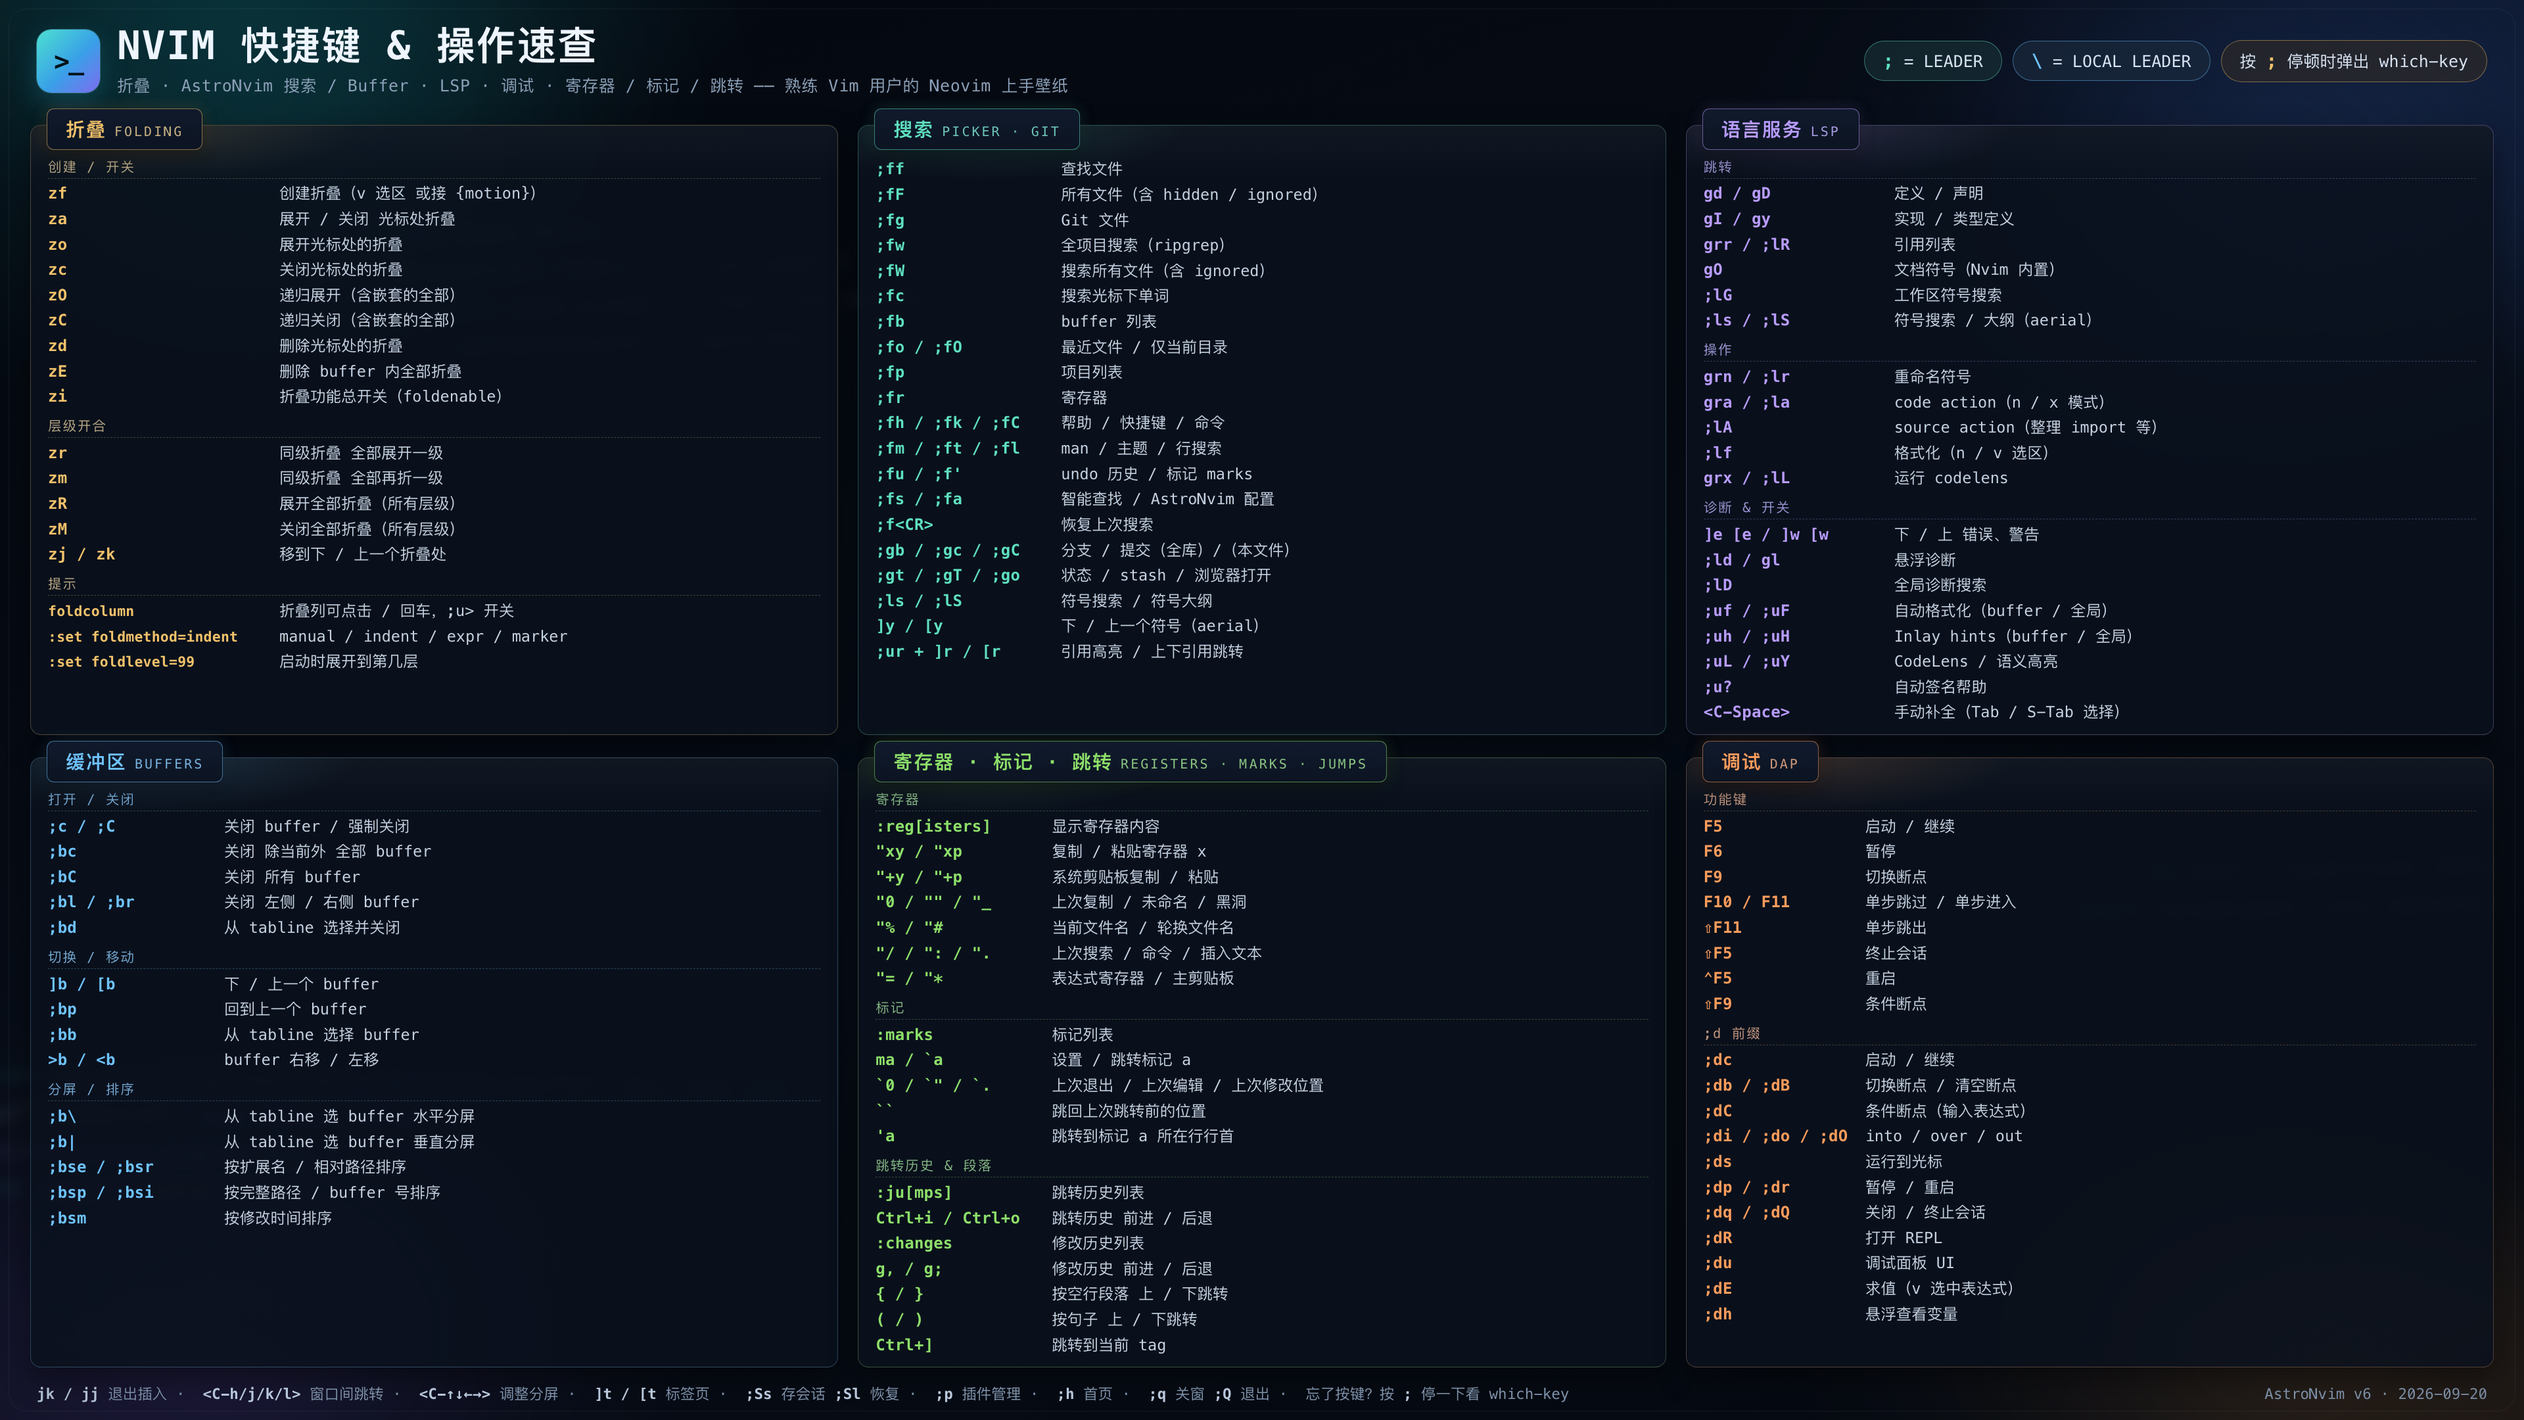
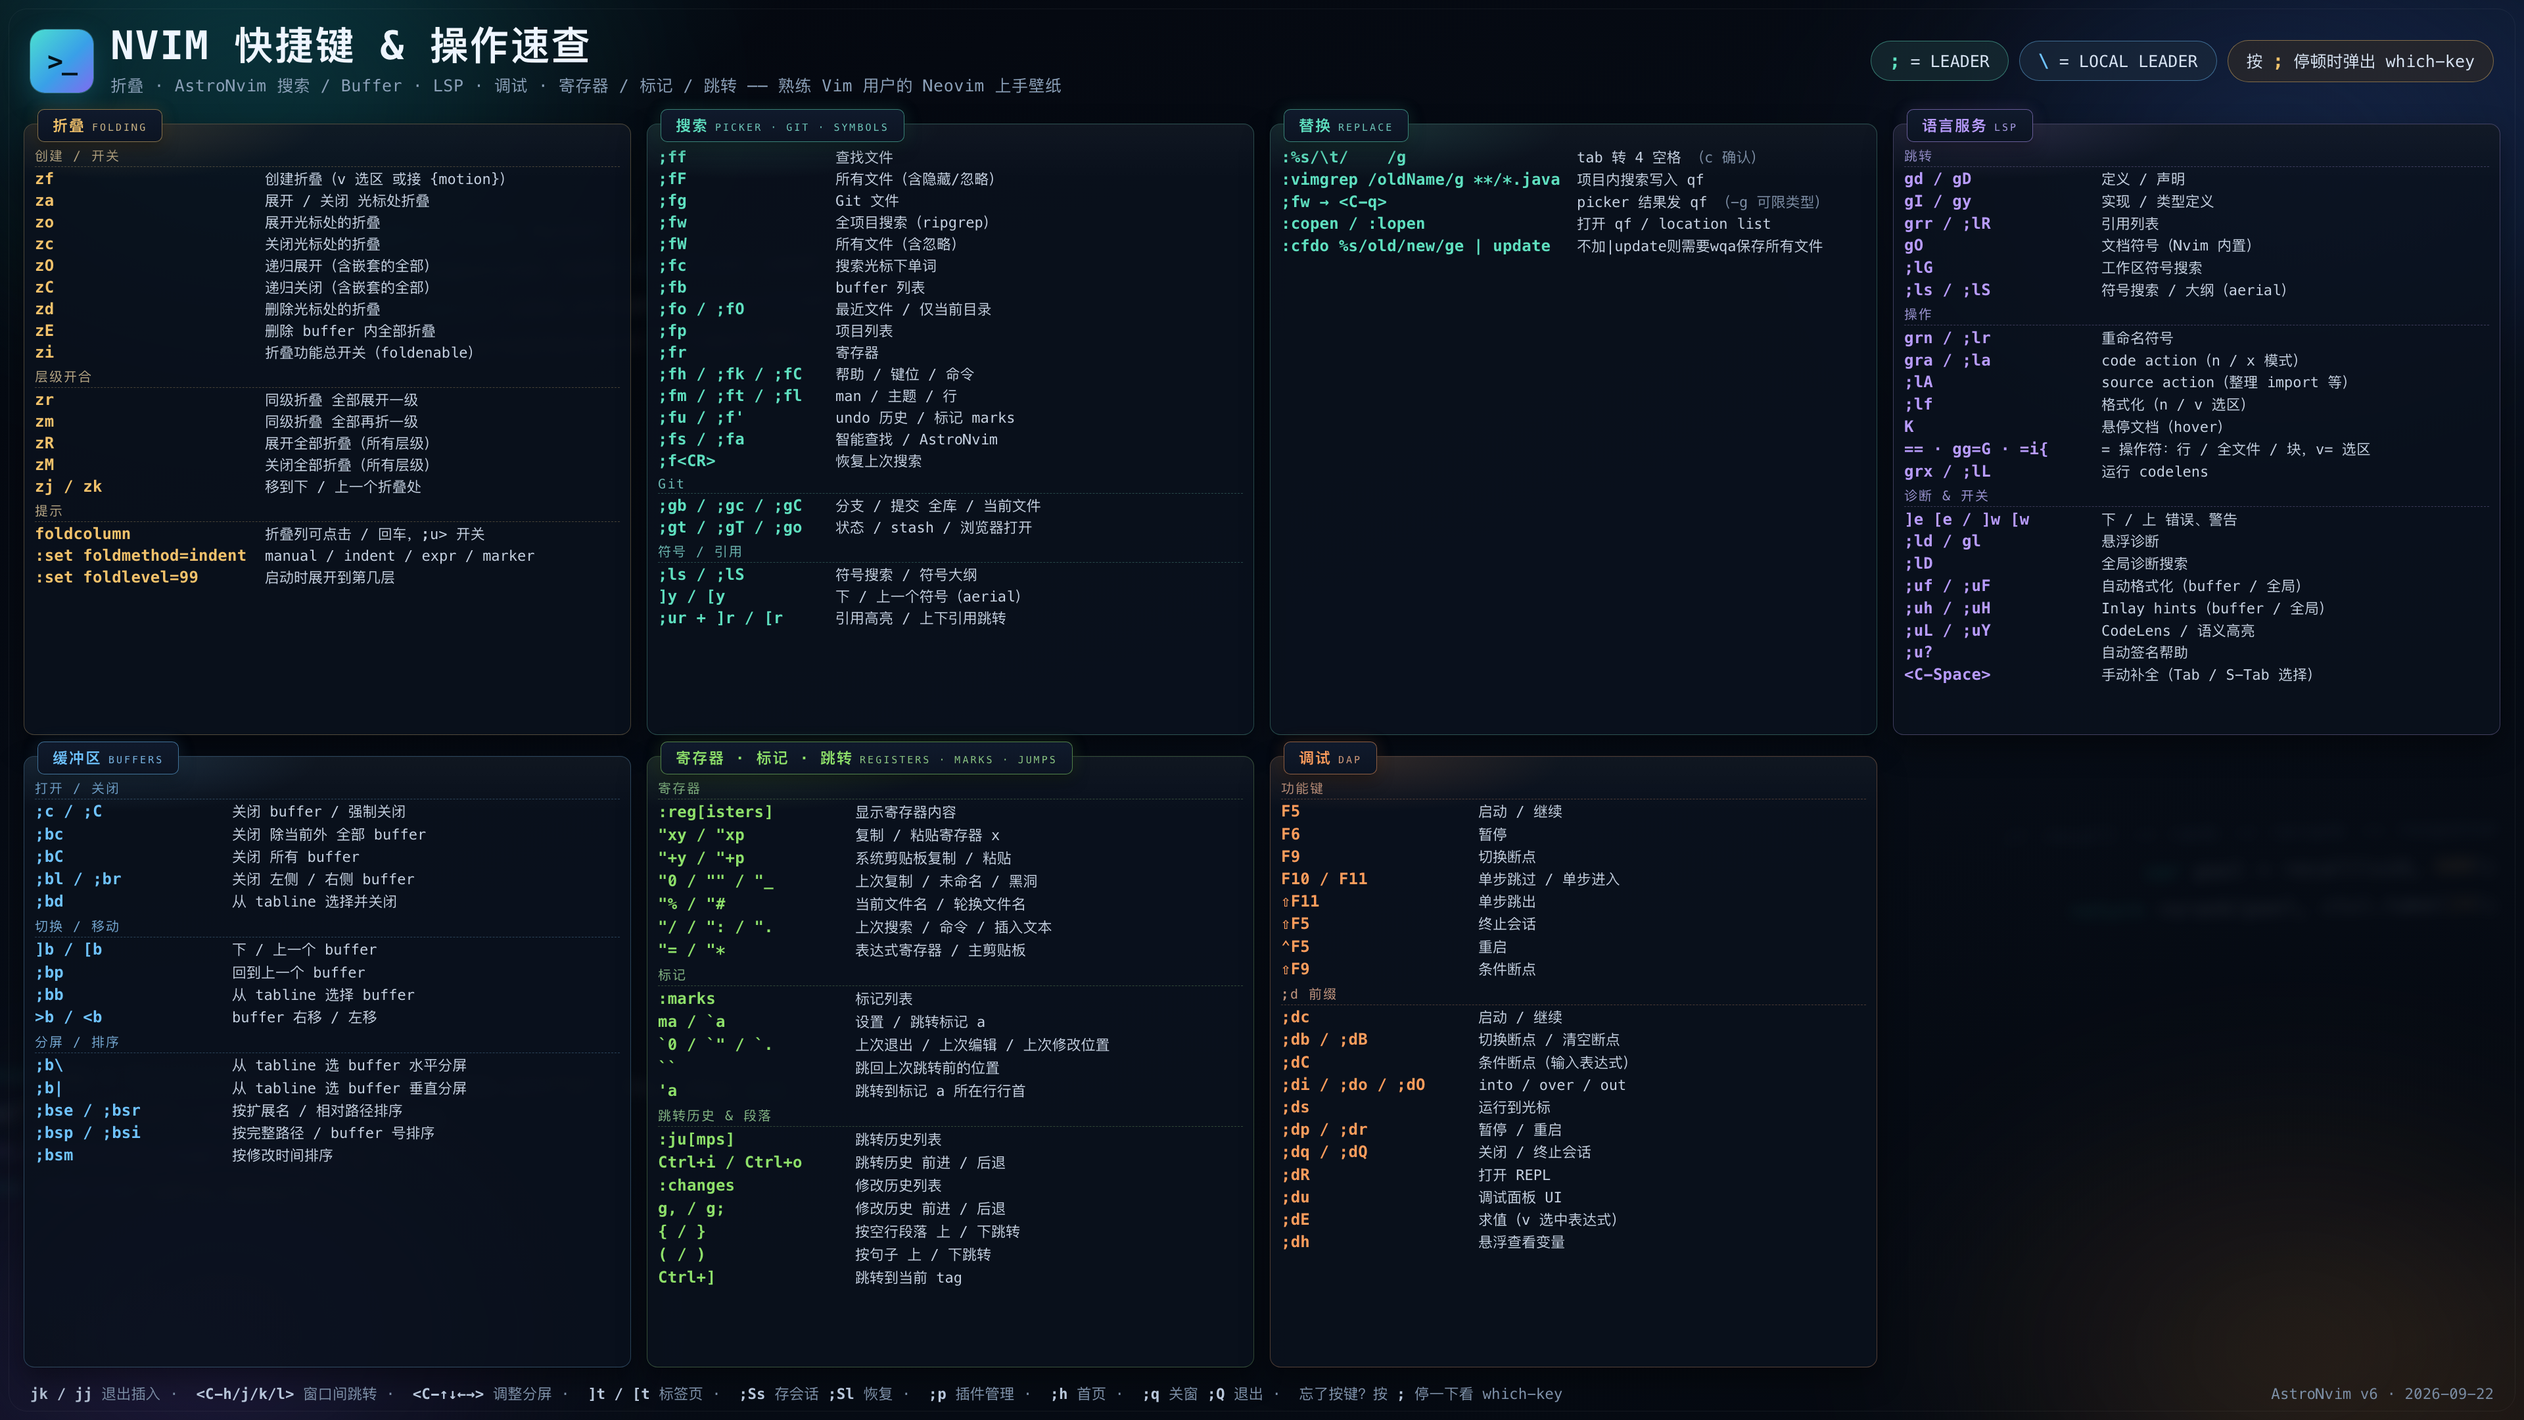
feat: add vimgrep/cfdo/copen

diff --git a/nvim-cheatsheet.html b/nvim-cheatsheet.html
@@ -16,7 +16,7 @@
     position:relative; width:3840px; height:2160px; flex:none;
     transform-origin:center center;
     display:flex; flex-direction:column;
-    padding:30px 46px 24px;
+    padding:30px 36px 24px;
     background:
       radial-gradient(1500px 700px at 8% -6%, rgba(24,180,190,.16), transparent 62%),
       radial-gradient(1700px 800px at 104% 4%, rgba(58,110,220,.14), transparent 60%),
@@ -59,12 +59,12 @@
 
   /* ---------- grid & panels ---------- */
   .grid { position:relative; flex:1; min-height:0; display:grid;
-          grid-template-columns:repeat(3,1fr); grid-template-rows:repeat(2,1fr);
-          gap:34px 30px; padding-top:18px; }
+          grid-template-columns:repeat(4,1fr); grid-template-rows:repeat(2,1fr);
+          gap:32px 24px; padding-top:16px; }
   .panel {
     --a:#6fc3ff;
     position:relative; min-height:0; border-radius:16px;
-    padding:38px 26px 18px;
+    padding:28px 16px 12px;
     background:linear-gradient(180deg, rgba(255,255,255,.028), rgba(255,255,255,0) 9%), rgba(10,17,29,.84);
     border:1px solid color-mix(in srgb, var(--a) 24%, rgba(255,255,255,.055));
     box-shadow:0 18px 44px rgba(0,0,0,.42), inset 0 1px 0 rgba(255,255,255,.03);
@@ -74,33 +74,35 @@
     background:radial-gradient(430px 120px at 16% 0%, color-mix(in srgb, var(--a) 13%, transparent), transparent 70%);
   }
   .tab {
-    position:absolute; top:-26px; left:24px; z-index:2;
-    display:flex; align-items:baseline; gap:12px;
-    padding:10px 28px; border-radius:11px;
+    position:absolute; top:-23px; left:20px; z-index:2;
+    display:flex; align-items:baseline; gap:10px;
+    padding:8px 22px; border-radius:10px;
     background:linear-gradient(180deg,#101a2c,#0c1422);
     border:1px solid color-mix(in srgb, var(--a) 52%, transparent);
     box-shadow:0 8px 22px rgba(0,0,0,.5), 0 0 24px color-mix(in srgb, var(--a) 16%, transparent);
     white-space:nowrap;
   }
-  .tab .zh { font-size:29px; font-weight:700; color:var(--a); letter-spacing:2px; }
-  .tab .en { font-size:20px; color:color-mix(in srgb, var(--a) 62%, #8798ad); letter-spacing:3px; }
+  .tab .zh { font-size:23px; font-weight:700; color:var(--a); letter-spacing:2px; }
+  .tab .en { font-size:15px; color:color-mix(in srgb, var(--a) 62%, #8798ad); letter-spacing:3px; }
 
-  .rows { position:relative; display:flex; flex-direction:column; height:100%; padding-top:10px; }
+  .rows { position:relative; display:flex; flex-direction:column; height:100%; padding-top:6px; }
   .sh {
-    margin:10px 0 4px; padding-bottom:3px; font-size:20.5px; letter-spacing:2px;
+    margin:6px 0 2px; padding-bottom:2px; font-size:20px; letter-spacing:2px;
     color:color-mix(in srgb, var(--a) 52%, #7d8da3);
     border-bottom:1px dashed color-mix(in srgb, var(--a) 22%, rgba(255,255,255,.06));
   }
   .sh:first-child { margin-top:0; }
-  .row { display:flex; align-items:baseline; padding:var(--rp,3.8px) 0; }
+  .row { display:flex; align-items:baseline; padding:var(--rp,2.4px) 0; }
   .k {
-    width:var(--kw,248px); flex:none; padding-right:16px;
+    width:var(--kw,248px); flex:none; padding-right:10px;
     font-size:24px; font-weight:600; color:var(--a); letter-spacing:.2px;
     white-space:nowrap;
   }
-  .k.sm { font-size:21.5px; }
-  .d { flex:1; min-width:0; font-size:23.5px; color:#c6d2e2; line-height:1.32; }
+  .k.sm { font-size:18px; }
+  .d { flex:1; min-width:0; font-size:22px; color:#c6d2e2; line-height:1.32; }
   .d .m { color:#7d8ea5; }
+  .col.compact .k.sm { font-size:15px; }
+  .col.compact .d { font-size:18px; }
 
   /* ---------- footer ---------- */
   footer {
@@ -156,7 +158,7 @@ map(<span class="ts">"&lt;Leader&gt;lf"</span>, <span class="tv">vim.lsp.buf.for
   <div class="grid">
 
     <!-- ============ 1. FOLDING ============ -->
-    <section class="panel" style="--a:#f2c26b;--kw:352px">
+    <section class="panel" style="--a:#f2c26b;--kw:350px;--rp:2.0px">
       <div class="tab"><span class="zh">折叠</span><span class="en">FOLDING</span></div>
       <div class="rows">
         <div class="sh">创建 / 开关</div>
@@ -176,41 +178,55 @@ map(<span class="ts">"&lt;Leader&gt;lf"</span>, <span class="tv">vim.lsp.buf.for
         <div class="row"><span class="k">zM</span><span class="d">关闭全部折叠（所有层级）</span></div>
         <div class="row"><span class="k">zj / zk</span><span class="d">移到下 / 上一个折叠处</span></div>
         <div class="sh">提示</div>
-        <div class="row"><span class="k sm">foldcolumn</span><span class="d">折叠列可点击 / 回车，;u&gt; 开关</span></div>
-        <div class="row"><span class="k sm">:set foldmethod=indent</span><span class="d">manual / indent / expr / marker</span></div>
-        <div class="row"><span class="k sm">:set foldlevel=99</span><span class="d">启动时展开到第几层</span></div>
+        <div class="row"><span class="k">foldcolumn</span><span class="d">折叠列可点击 / 回车，;u&gt; 开关</span></div>
+        <div class="row"><span class="k">:set foldmethod=indent</span><span class="d">manual / indent / expr / marker</span></div>
+        <div class="row"><span class="k">:set foldlevel=99</span><span class="d">启动时展开到第几层</span></div>
       </div>
     </section>
 
-    <!-- ============ 2. PICKER ============ -->
-    <section class="panel" style="--a:#5fe0c0;--kw:282px">
-      <div class="tab"><span class="zh">搜索</span><span class="en">PICKER · GIT</span></div>
+    <!-- ============ 2. SEARCH / PICKER ============ -->
+    <section class="panel" style="--a:#5fe0c0;--kw:270px;--rp:2.0px">
+      <div class="tab"><span class="zh">搜索</span><span class="en">PICKER · GIT · SYMBOLS</span></div>
       <div class="rows">
         <div class="row"><span class="k">;ff</span><span class="d">查找文件</span></div>
-        <div class="row"><span class="k">;fF</span><span class="d">所有文件（含 hidden / ignored）</span></div>
+        <div class="row"><span class="k">;fF</span><span class="d">所有文件（含隐藏/忽略）</span></div>
         <div class="row"><span class="k">;fg</span><span class="d">Git 文件</span></div>
         <div class="row"><span class="k">;fw</span><span class="d">全项目搜索（ripgrep）</span></div>
-        <div class="row"><span class="k">;fW</span><span class="d">搜索所有文件（含 ignored）</span></div>
+        <div class="row"><span class="k">;fW</span><span class="d">所有文件（含忽略）</span></div>
         <div class="row"><span class="k">;fc</span><span class="d">搜索光标下单词</span></div>
         <div class="row"><span class="k">;fb</span><span class="d">buffer 列表</span></div>
         <div class="row"><span class="k">;fo / ;fO</span><span class="d">最近文件 / 仅当前目录</span></div>
         <div class="row"><span class="k">;fp</span><span class="d">项目列表</span></div>
         <div class="row"><span class="k">;fr</span><span class="d">寄存器</span></div>
-        <div class="row"><span class="k">;fh / ;fk / ;fC</span><span class="d">帮助 / 快捷键 / 命令</span></div>
-        <div class="row"><span class="k">;fm / ;ft / ;fl</span><span class="d">man / 主题 / 行搜索</span></div>
+        <div class="row"><span class="k">;fh / ;fk / ;fC</span><span class="d">帮助 / 键位 / 命令</span></div>
+        <div class="row"><span class="k">;fm / ;ft / ;fl</span><span class="d">man / 主题 / 行</span></div>
         <div class="row"><span class="k">;fu / ;f'</span><span class="d">undo 历史 / 标记 marks</span></div>
-        <div class="row"><span class="k">;fs / ;fa</span><span class="d">智能查找 / AstroNvim 配置</span></div>
+        <div class="row"><span class="k">;fs / ;fa</span><span class="d">智能查找 / AstroNvim</span></div>
         <div class="row"><span class="k">;f&lt;CR&gt;</span><span class="d">恢复上次搜索</span></div>
-        <div class="row"><span class="k">;gb / ;gc / ;gC</span><span class="d">分支 / 提交（全库）/（本文件）</span></div>
+        <div class="sh">Git</div>
+        <div class="row"><span class="k">;gb / ;gc / ;gC</span><span class="d">分支 / 提交 全库 / 当前文件</span></div>
         <div class="row"><span class="k">;gt / ;gT / ;go</span><span class="d">状态 / stash / 浏览器打开</span></div>
+        <div class="sh">符号 / 引用</div>
         <div class="row"><span class="k">;ls / ;lS</span><span class="d">符号搜索 / 符号大纲</span></div>
         <div class="row"><span class="k">]y / [y</span><span class="d">下 / 上一个符号（aerial）</span></div>
         <div class="row"><span class="k">;ur + ]r / [r</span><span class="d">引用高亮 / 上下引用跳转</span></div>
       </div>
     </section>
 
-    <!-- ============ 3. LSP ============ -->
-    <section class="panel" style="--a:#b99cff;--kw:290px">
+    <!-- ============ 3. REPLACE ============ -->
+    <section class="panel" style="--a:#5fe0c0;--kw:450px;--rp:2.4px">
+      <div class="tab"><span class="zh">替换</span><span class="en">REPLACE</span></div>
+      <div class="rows">
+        <div class="row"><span class="k">:%s/\t/&nbsp;&nbsp;&nbsp;&nbsp;/g</span><span class="d">tab 转 4 空格 <span class="m">（c 确认）</span></span></div>
+        <div class="row"><span class="k">:vimgrep /oldName/g **/*.java</span><span class="d">项目内搜索写入 qf</span></div>
+        <div class="row"><span class="k">;fw → &lt;C-q&gt;</span><span class="d">picker 结果发 qf <span class="m">（-g 可限类型）</span></span></div>
+        <div class="row"><span class="k">:copen / :lopen</span><span class="d">打开 qf / location list</span></div>
+        <div class="row"><span class="k">:cfdo %s/old/new/ge | update</span><span class="d">不加|update则需要wqa保存所有文件 </span></div>
+      </div>
+    </section>
+
+    <!-- ============ 4. LSP ============ -->
+    <section class="panel" style="--a:#b99cff;--kw:300px;--rp:2.4px">
       <div class="tab"><span class="zh">语言服务</span><span class="en">LSP</span></div>
       <div class="rows">
         <div class="sh">跳转</div>
@@ -225,6 +241,8 @@ map(<span class="ts">"&lt;Leader&gt;lf"</span>, <span class="tv">vim.lsp.buf.for
         <div class="row"><span class="k">gra / ;la</span><span class="d">code action（n / x 模式）</span></div>
         <div class="row"><span class="k">;lA</span><span class="d">source action（整理 import 等）</span></div>
         <div class="row"><span class="k">;lf</span><span class="d">格式化（n / v 选区）</span></div>
+        <div class="row"><span class="k">K</span><span class="d">悬停文档（hover）</span></div>
+        <div class="row"><span class="k">== · gg=G · =i{</span><span class="d">= 操作符：行 / 全文件 / 块，v= 选区</span></div>
         <div class="row"><span class="k">grx / ;lL</span><span class="d">运行 codelens</span></div>
         <div class="sh">诊断 &amp; 开关</div>
         <div class="row"><span class="k">]e [e / ]w [w</span><span class="d">下 / 上 错误、警告</span></div>
@@ -239,7 +257,7 @@ map(<span class="ts">"&lt;Leader&gt;lf"</span>, <span class="tv">vim.lsp.buf.for
     </section>
 
     <!-- ============ 4. BUFFERS ============ -->
-    <section class="panel" style="--a:#6fc3ff;--kw:268px">
+    <section class="panel" style="--a:#6fc3ff;--kw:300px;--rp:2.6px">
       <div class="tab"><span class="zh">缓冲区</span><span class="en">BUFFERS</span></div>
       <div class="rows">
         <div class="sh">打开 / 关闭</div>
@@ -263,7 +281,7 @@ map(<span class="ts">"&lt;Leader&gt;lf"</span>, <span class="tv">vim.lsp.buf.for
     </section>
 
     <!-- ============ 5. REGISTERS / MARKS / JUMPS ============ -->
-    <section class="panel" style="--a:#8ee06a;--kw:268px">
+    <section class="panel" style="--a:#8ee06a;--kw:300px;--rp:3.0px">
       <div class="tab"><span class="zh">寄存器 · 标记 · 跳转</span><span class="en">REGISTERS · MARKS · JUMPS</span></div>
       <div class="rows">
         <div class="sh">寄存器</div>
@@ -292,7 +310,7 @@ map(<span class="ts">"&lt;Leader&gt;lf"</span>, <span class="tv">vim.lsp.buf.for
     </section>
 
     <!-- ============ 6. DAP ============ -->
-    <section class="panel" style="--a:#ff9d5c;--kw:246px">
+    <section class="panel" style="--a:#ff9d5c;--kw:300px;--rp:2.6px">
       <div class="tab"><span class="zh">调试</span><span class="en">DAP</span></div>
       <div class="rows">
         <div class="sh">功能键</div>
@@ -327,7 +345,7 @@ map(<span class="ts">"&lt;Leader&gt;lf"</span>, <span class="tv">vim.lsp.buf.for
       <b>]t / [t</b> 标签页 ·&nbsp; <b>;Ss</b> 存会话 <b>;Sl</b> 恢复 ·&nbsp; <b>;p</b> 插件管理 ·&nbsp;
       <b>;h</b> 首页 ·&nbsp; <b>;q</b> 关窗 <b>;Q</b> 退出 ·&nbsp; 忘了按键？按 <b>;</b> 停一下看 which-key
     </div>
-    <div>AstroNvim v6 · 2026-09-20</div>
+    <div>AstroNvim v6 · 2026-09-22</div>
   </footer>
 
   <div class="vig"></div>
